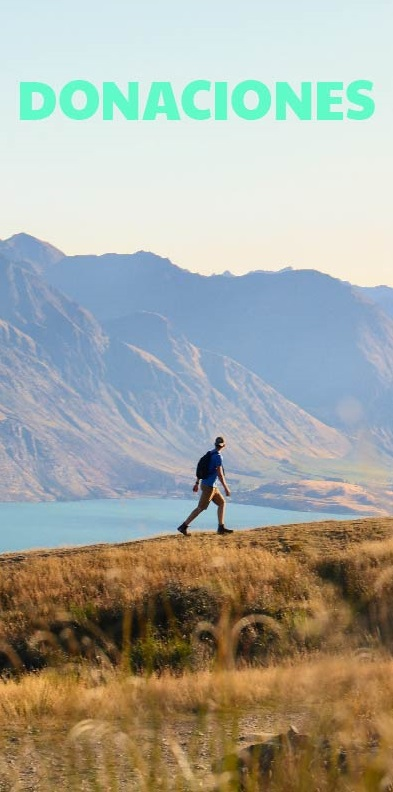
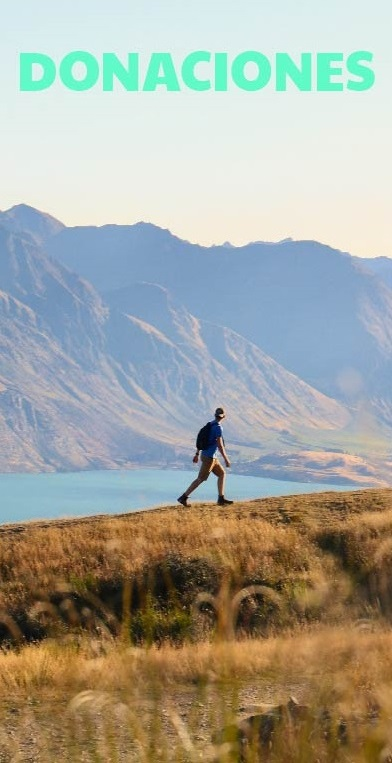
Ajuste pantalla incio texto 5

diff --git a/styles/styles.css b/styles/styles.css
@@ -126,7 +126,7 @@ body {
     width: 240px;
     height: 510px;
     margin-left: 32px;
-    margin-top: 24%;
+    margin-top: 32%;
   }
   /* Define el formato, tamaño y posición del formulario de la pagina contactanos*/
   .form_contactanos {

diff --git a/SASS/mobile/_sección_principal.scss b/SASS/mobile/_sección_principal.scss
@@ -45,5 +45,5 @@
         font-weight: bold;
         @include size(240px, 510px);
         margin-left: 32px;
-        margin-top: 24%;
+        margin-top: 32%;
     }
